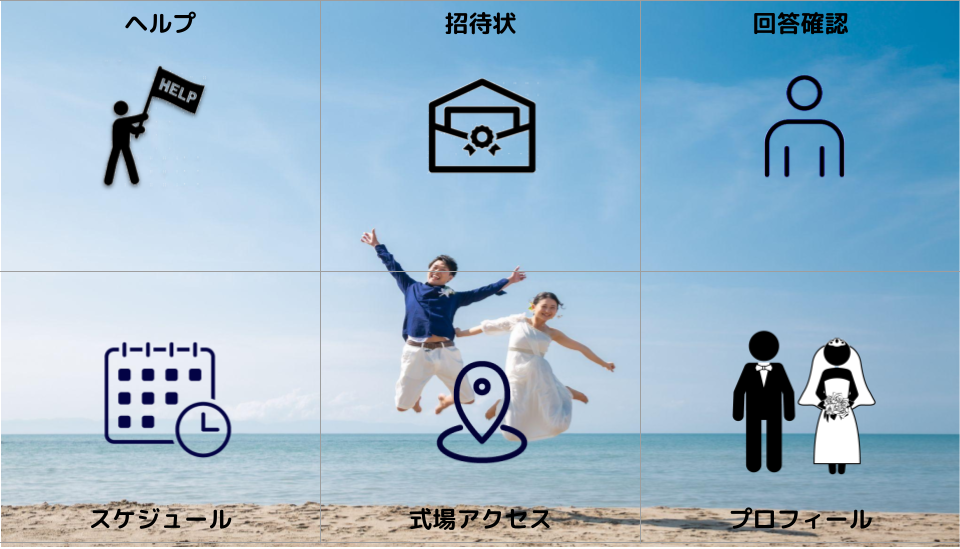
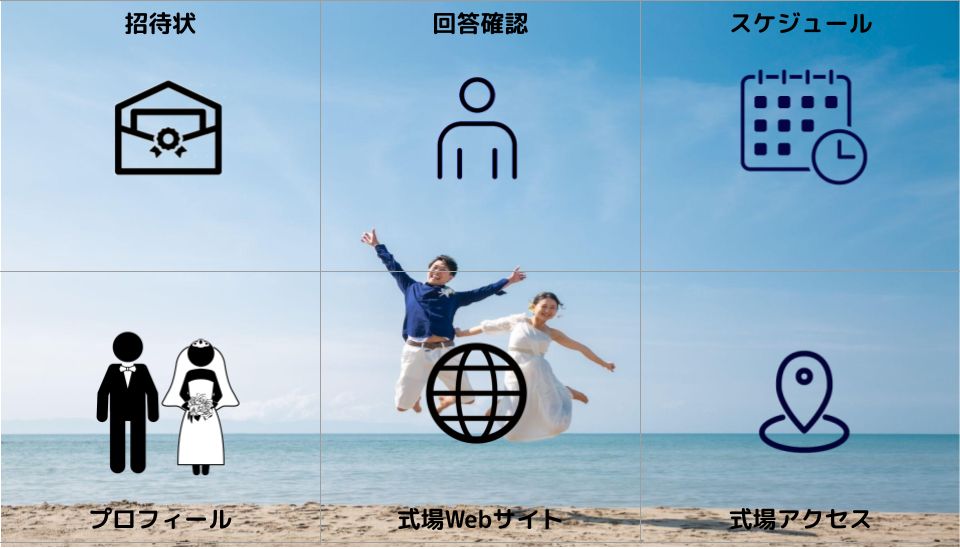
modify message add config which enables each pages modify richmenu add taxi field to user add note field to user

diff --git a/interface/controller/line_bot_controller.go b/interface/controller/line_bot_controller.go
@@ -1,6 +1,9 @@
 package controller
 
 import (
+	"os"
+	"strconv"
+
 	"github.com/takakuwa-s/line-wedding-api/conf"
 	"github.com/takakuwa-s/line-wedding-api/dto"
 	"github.com/takakuwa-s/line-wedding-api/entity"
@@ -22,6 +25,7 @@ func NewLineBotController(lb *dto.LineBot, lru *usecase.LineReplyUsecase) *LineB
 }
 
 func (lbc *LineBotController) Webhook(c *gin.Context) {
+	fileFeatureAvailable, _ := strconv.ParseBool(os.Getenv("FILE_FEATURE_AVAILABLE"))
 	bot, err := lbc.lb.GetClient()
 	if err != nil {
 		conf.Log.Error("Failed to get the line bot instance", zap.Error(err))
@@ -41,27 +45,34 @@ func (lbc *LineBotController) Webhook(c *gin.Context) {
 				case *linebot.ImageMessage:
 					imageMessage := event.Message.(*linebot.ImageMessage)
 					if imageMessage.ContentProvider.Type == linebot.ContentProviderTypeLINE {
-						file := entity.NewFile(imageMessage.ID, event.Source.UserID, entity.Image, 0)
-						var imageSet *entity.ImageSet
-						if imageMessage.ImageSet != nil {
-							imageSet = entity.NewImageSet(imageMessage.ImageSet.ID, imageMessage.ImageSet.Total)
+						if fileFeatureAvailable {
+							file := entity.NewFile(imageMessage.ID, event.Source.UserID, entity.Image, 0)
+							var imageSet *entity.ImageSet
+							if imageMessage.ImageSet != nil {
+								imageSet = entity.NewImageSet(imageMessage.ImageSet.ID, imageMessage.ImageSet.Total)
+							}
+							message := dto.NewFileMessage(event.ReplyToken, file, imageSet)
+							err = lbc.lru.HandleImageEvent(message)
+						} else {
+							err = lbc.lru.HandleUnknownMessage(event.ReplyToken)
 						}
-						message := dto.NewFileMessage(event.ReplyToken, file, imageSet)
-						err = lbc.lru.HandleImageEvent(message)
 					}
 				case *linebot.VideoMessage:
 					videoMessage := event.Message.(*linebot.VideoMessage)
 					if videoMessage.ContentProvider.Type == linebot.ContentProviderTypeLINE {
-						file := entity.NewFile(videoMessage.ID, event.Source.UserID, entity.Video, videoMessage.Duration)
-						message := dto.NewFileMessage(event.ReplyToken, file, nil)
-						err = lbc.lru.HandleVideoEvent(message)
+						if fileFeatureAvailable {
+							file := entity.NewFile(videoMessage.ID, event.Source.UserID, entity.Video, videoMessage.Duration)
+							message := dto.NewFileMessage(event.ReplyToken, file, nil)
+							err = lbc.lru.HandleVideoEvent(message)
+						} else {
+							err = lbc.lru.HandleUnknownMessage(event.ReplyToken)
+						}
 					}
 				case *linebot.TextMessage:
 					message := dto.NewTextMessage(event.ReplyToken, event.Message.(*linebot.TextMessage).Text, event.Source.UserID)
 					err = lbc.lru.HandleTextMessage(message)
 				default:
-					message := dto.NewTextMessage(event.ReplyToken, "unknown", event.Source.UserID)
-					err = lbc.lru.HandleTextMessage(message)
+					err = lbc.lru.HandleUnknownMessage(event.ReplyToken)
 				}
 			case linebot.EventTypePostback:
 				message := dto.NewPostbackMessage(event.ReplyToken, event.Postback.Data, event.Source.UserID, event.Postback.Params)

diff --git a/usecase/usecase/line_reply_usecase.go b/usecase/usecase/line_reply_usecase.go
@@ -124,7 +124,7 @@ func (lru *LineReplyUsecase) HandleFollowEvent(m *dto.FollowMessage) error {
 		}
 	} else {
 		// update user status
-		if err := lru.ur.UpdateBoolFieldById(m.SenderUserId, "Follow", true); err != nil {
+		if err := lru.ur.UpdateFieldById(m.SenderUserId, "Follow", true); err != nil {
 			return err
 		}
 		profile = user
@@ -138,7 +138,8 @@ func (lru *LineReplyUsecase) HandleFollowEvent(m *dto.FollowMessage) error {
 	// Return message
 	messages := lru.mr.FindMessageByKey("follow")
 	liffUrl := os.Getenv("LIFF_URL")
-	messages[2]["text"] = fmt.Sprintf(messages[2]["text"].(string), liffUrl)
+	action := messages[2]["contents"].(map[string]interface{})["body"].(map[string]interface{})["contents"].([]interface{})[0].(map[string]interface{})["action"].(map[string]interface{})
+	messages[2]["contents"].(map[string]interface{})["body"].(map[string]interface{})["contents"].([]interface{})[0].(map[string]interface{})["action"].(map[string]interface{})["uri"] = fmt.Sprintf(action["uri"].(string), liffUrl)
 	return lru.p.ReplyMessage(m.ReplyToken, messages)
 }
 
@@ -153,7 +154,7 @@ func (lru *LineReplyUsecase) HandleUnFollowEvent(m *dto.FollowMessage) error {
 	}
 
 	// update user status
-	if err := lru.ur.UpdateBoolFieldById(m.SenderUserId, "Follow", false); err != nil {
+	if err := lru.ur.UpdateFieldById(m.SenderUserId, "Follow", false); err != nil {
 		return err
 	}
 
@@ -192,6 +193,11 @@ func (lru *LineReplyUsecase) HandleTextMessage(m *dto.TextMessage) error {
 		messages = lru.mr.FindMessageByKey("unknown")
 	}
 	return lru.p.ReplyMessage(m.ReplyToken, messages)
+}
+
+func (lru *LineReplyUsecase) HandleUnknownMessage(replyToken string) error {
+	messages := lru.mr.FindMessageByKey("unknown")
+	return lru.p.ReplyMessage(replyToken, messages)
 }
 
 func (lru *LineReplyUsecase) HandlePostbackEvent(m *dto.PostbackMessage) error {

diff --git a/dto/patch_user_request.go b/dto/patch_user_request.go
@@ -8,24 +8,25 @@ import (
 type PatchUserRequest struct {
 	IsAdmin    string `json:"isAdmin"`
 	Attendance string `json:"attendance"`
+	Note       string `json:"note"`
 }
 
-func (p *PatchUserRequest) GetFieldAndVal() (string, bool, error) {
-	if p.IsAdmin != "" && p.Attendance != "" {
-		return "", false, fmt.Errorf("[PatchUser] isAdmin and attendance are exclusive")
-	} else if p.IsAdmin == "" && p.Attendance == "" {
-		return "", false, fmt.Errorf("[PatchUser] neither isAdmin nor attendance are set")
-	} else if p.IsAdmin != "" {
+func (p *PatchUserRequest) GetFieldAndVal() (string, interface{}, error) {
+	if p.IsAdmin != "" && p.Attendance == "" && p.Note == "" {
 		if val, err := strconv.ParseBool(p.IsAdmin); err == nil {
 			return "IsAdmin", val, nil
 		} else {
 			return "", false, fmt.Errorf("[PatchUser] isAdmin must be boolean")
 		}
-	} else {
+	} else if p.IsAdmin == "" && p.Attendance != "" && p.Note == "" {
 		if val, err := strconv.ParseBool(p.Attendance); err == nil {
 			return "Attendance", val, nil
 		} else {
 			return "", false, fmt.Errorf("[PatchUser] attendance must be boolean")
 		}
+	} else if p.IsAdmin == "" && p.Attendance == "" && p.Note != "" {
+		return "Note", p.Note, nil
+	} else {
+		return "", false, fmt.Errorf("[PatchUser] One field can be updated at a time")
 	}
 }

diff --git a/interface/controller/user_api_controller.go b/interface/controller/user_api_controller.go
@@ -132,6 +132,7 @@ func (uac *UserApiController) convertToCsv(users []entity.User) [][]string {
 	var data [][]string
 	data = append(data, []string{
 		"#",
+		"LINE名",
 		"名前",
 		"かな",
 		"管理者",
@@ -142,8 +143,10 @@ func (uac *UserApiController) convertToCsv(users []entity.User) [][]string {
 		"電話番号",
 		"郵便番号",
 		"住所",
+		"タクシー",
 		"アレルギー",
 		"メッセージ",
+		"管理メモ",
 	})
 	for i, u := range users {
 		var guest string
@@ -152,11 +155,14 @@ func (uac *UserApiController) convertToCsv(users []entity.User) [][]string {
 			guest = "新郎側"
 		case "BRIDE":
 			guest = "新婦側"
+		case "COMMON":
+			guest = "共通"
 		default:
 			guest = ""
 		}
 		data = append(data, []string{
 			strconv.Itoa(i + 1),
+			u.LineName,
 			u.FamilyName + " " + u.FirstName,
 			u.FamilyNameKana + " " + u.FirstNameKana,
 			uac.convertBoolToStr(u.IsAdmin),
@@ -167,8 +173,10 @@ func (uac *UserApiController) convertToCsv(users []entity.User) [][]string {
 			u.PhoneNumber,
 			u.PostalCode,
 			u.Address,
+			uac.convertBoolToStr(u.TaxiUse),
 			u.Allergy,
 			u.Message,
+			u.Note,
 		})
 	}
 	return data

diff --git a/driver/wedding_router.go b/driver/wedding_router.go
@@ -14,6 +14,7 @@ type WeddingRouter struct {
 	fac *controller.FileApiController
 	lac *controller.LineApiController
 	sac *controller.SlideShowApiController
+	cac *controller.ConfigApiController
 }
 
 // Newコンストラクタ
@@ -23,8 +24,9 @@ func NewWeddingRouter(
 	uac *controller.UserApiController,
 	fac *controller.FileApiController,
 	lac *controller.LineApiController,
-	sac *controller.SlideShowApiController) *WeddingRouter {
-	return &WeddingRouter{cr: cr, lbc: lbc, uac: uac, fac: fac, lac: lac, sac: sac}
+	sac *controller.SlideShowApiController,
+	cac *controller.ConfigApiController) *WeddingRouter {
+	return &WeddingRouter{cr: cr, lbc: lbc, uac: uac, fac: fac, lac: lac, sac: sac, cac: cac}
 }
 
 // Init ルーティング設定
@@ -57,6 +59,7 @@ func (wr *WeddingRouter) Init() {
 			slideshow.PATCH("/:id", wr.sac.PatchSlideshow)
 		}
 		api.POST("/line/message", wr.lac.SendMessageToLineBot)
+		api.GET("/config", wr.cac.GetConfig)
 	}
 	port := os.Getenv("PORT")
 	if port == "" {

diff --git a/interface/gateway/user_repository.go b/interface/gateway/user_repository.go
@@ -30,7 +30,7 @@ func (ur *UserRepository) SaveUser(user *entity.User) error {
 	return ur.cr.Save("users", user.Id, user)
 }
 
-func (ur *UserRepository) UpdateBoolFieldById(id, field string, val bool) error {
+func (ur *UserRepository) UpdateFieldById(id, field string, val interface{}) error {
 	if _, err := ur.f.Firestore.Collection("users").Doc(id).Update(conf.Ctx, []firestore.Update{
 		{
 			Path:  field,
@@ -41,9 +41,9 @@ func (ur *UserRepository) UpdateBoolFieldById(id, field string, val bool) error 
 			Value: time.Now(),
 		},
 	}); err != nil {
-		return fmt.Errorf("failed to update the user; id =  %s, field = %s, val = %t, err = %w", id, field, val, err)
+		return fmt.Errorf("failed to update the user; id =  %s, field = %s, val = %s, err = %w", id, field, val, err)
 	}
-	conf.Log.Info("Successfully update the user", zap.String("id", id), zap.Bool(field, val))
+	conf.Log.Info("Successfully update the user", zap.String("id", id), zap.Any(field, val))
 	return nil
 }
 

diff --git a/usecase/usecase/api_usecase.go b/usecase/usecase/api_usecase.go
@@ -45,21 +45,25 @@ func (au *ApiUsecase) UpdateUser(r *dto.UpdateUserRequest) (*entity.User, error)
 			return nil, err
 		}
 	}
+	registered := user.Registered
 	user = r.ToUser(user)
 	user.Registered = true
 	if err = au.ur.SaveUser(user); err != nil {
 		return nil, err
 	}
+	if err = au.lpu.SendRegisterNotification(registered, user.FamilyName+user.FirstName); err != nil {
+		return nil, err
+	}
 	return user, nil
 }
 
-func (au *ApiUsecase) PatchUser(userId, field string, val bool) error {
+func (au *ApiUsecase) PatchUser(userId, field string, val interface{}) error {
 	// Check if user exists
 	if _, err := au.GetUser(userId); err != nil {
 		return err
 	}
 
-	return au.ur.UpdateBoolFieldById(userId, field, val)
+	return au.ur.UpdateFieldById(userId, field, val)
 }
 
 func (au *ApiUsecase) GetUser(id string) (*entity.User, error) {

diff --git a/app/wedding-api/wire_gen.go b/app/wedding-api/wire_gen.go
@@ -41,6 +41,7 @@ func InitializeRouter() *driver.WeddingRouter {
 	fileApiController := controller.NewFileApiController(apiUsecase)
 	lineApiController := controller.NewLineApiController(apiUsecase)
 	slideShowApiController := controller.NewSlideShowApiController(slideShowUsecase)
-	weddingRouter := driver.NewWeddingRouter(commonRouter, lineBotController, userApiController, fileApiController, lineApiController, slideShowApiController)
+	configApiController := controller.NewConfigApiController()
+	weddingRouter := driver.NewWeddingRouter(commonRouter, lineBotController, userApiController, fileApiController, lineApiController, slideShowApiController, configApiController)
 	return weddingRouter
 }

diff --git a/usecase/usecase/line_push_usecase.go b/usecase/usecase/line_push_usecase.go
@@ -66,6 +66,17 @@ func (lpu *LinePushUsecase) SendUnFollowNotification(unFollower *entity.User) er
 	return lpu.multicastMessageToAdmin(messages)
 }
 
+func (lpu *LinePushUsecase) SendRegisterNotification(registered bool, name string) error {
+	var messages []map[string]interface{}
+	if registered {
+		messages = lpu.mr.FindMessageByKey("wedding_modify")
+	} else {
+		messages = lpu.mr.FindMessageByKey("wedding_register")
+	}
+	messages[0]["text"] = fmt.Sprintf(messages[0]["text"].(string), name)
+	return lpu.multicastMessageToAdmin(messages)
+}
+
 func (lpu *LinePushUsecase) multicastMessageToAdmin(m []map[string]interface{}) error {
 	users, err := lpu.ur.FindByIsAdmin(true)
 	if err != nil {

diff --git a/interface/controller/config_api_controller.go b/interface/controller/config_api_controller.go
@@ -1,0 +1,25 @@
+package controller
+
+import (
+	"net/http"
+	"os"
+	"strconv"
+
+	"github.com/gin-gonic/gin"
+	"github.com/takakuwa-s/line-wedding-api/dto"
+)
+
+type ConfigApiController struct {
+}
+
+// コンストラクタ
+func NewConfigApiController() *ConfigApiController {
+	return &ConfigApiController{}
+}
+
+func (cac *ConfigApiController) GetConfig(c *gin.Context) {
+	fileFeatureAvailable, _ := strconv.ParseBool(os.Getenv("FILE_FEATURE_AVAILABLE"))
+	attendanceFeatureAvailable, _ := strconv.ParseBool(os.Getenv("ATTENDANCE_FEATURE_AVAILABLE"))
+	responce := dto.NewConfigResponce(fileFeatureAvailable, attendanceFeatureAvailable)
+	c.JSON(http.StatusOK, gin.H{"config": responce})
+}

diff --git a/entity/user.go b/entity/user.go
@@ -21,10 +21,12 @@ type User struct {
 	PhoneNumber    string    `json:"phoneNumber"`
 	PostalCode     string    `json:"postalCode"`
 	Address        string    `json:"address"`
+	TaxiUse        bool      `json:"taxiUse"`
 	Allergy        string    `json:"allergy"`
 	Message        string    `json:"message"`
 	IsAdmin        bool      `json:"isAdmin"`
 	Registered     bool      `json:"registered"`
+	Note           string    `json:"note"`
 	CreatedAt      time.Time `json:"createdAt"`
 	UpdatedAt      time.Time `json:"updatedAt"`
 }

diff --git a/dto/update_user_request.go b/dto/update_user_request.go
@@ -15,6 +15,7 @@ type UpdateUserRequest struct {
 	PhoneNumber    string
 	PostalCode     string
 	Address        string
+	TaxiUse        bool
 	Allergy        string
 	Message        string
 }
@@ -29,6 +30,7 @@ func (ur *UpdateUserRequest) ToUser(u *entity.User) *entity.User {
 	u.PhoneNumber = ur.PhoneNumber
 	u.PostalCode = ur.PostalCode
 	u.Address = ur.Address
+	u.TaxiUse = ur.TaxiUse
 	u.Allergy = ur.Allergy
 	u.Message = ur.Message
 	return u
